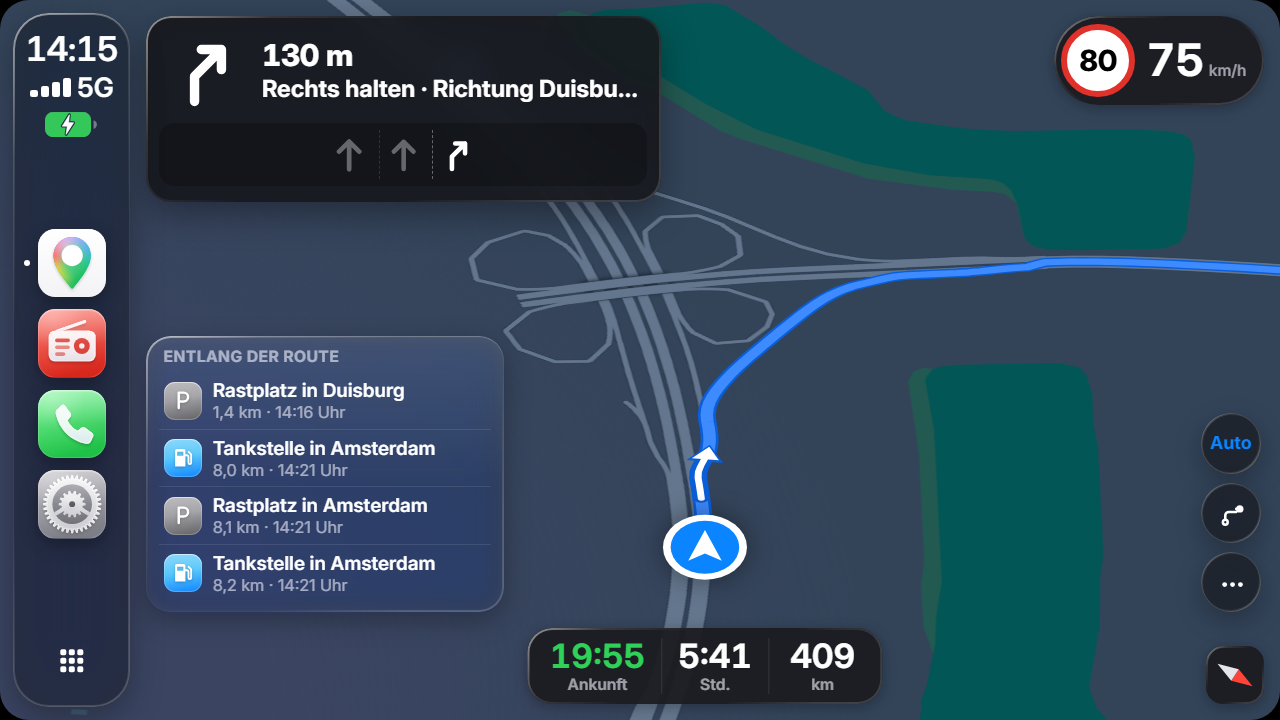
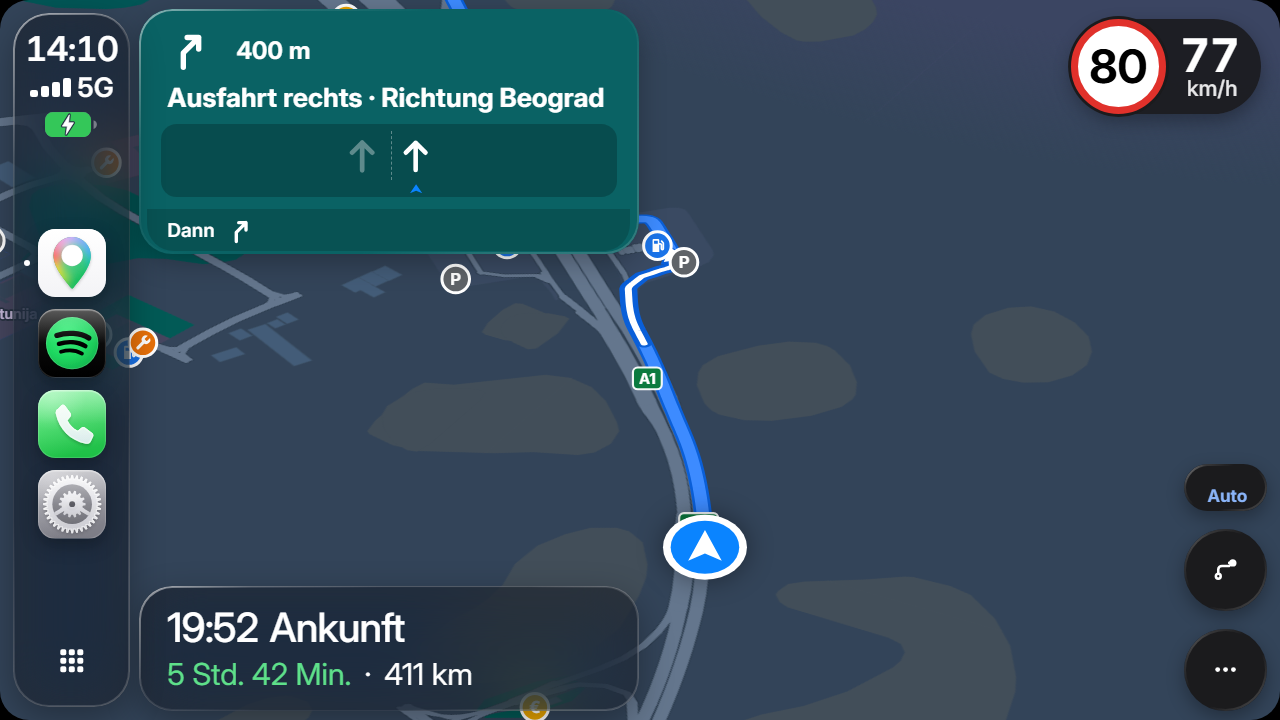
Version 1.9.7: neue Bilder, überarbeitete Beschreibung, Changelog

diff --git a/README.md b/README.md
@@ -2,7 +2,7 @@
 
 Deutsch · [English](README.en.md)
 
-Eine CarPlay-Oberfläche für das Navi-Display in Euro Truck Simulator 2. Auf dem Bildschirm im Truck laufen dann Karte mit Abbiegehinweisen, Spotify, Radio, Auftrag, Fahrzeugdaten, Blitzerwarner, Telefon und ein paar Apps mehr. Bedient wird mit der Maus, über Tastenkürzel oder vom Handy aus.
+Apple CarPlay für das Navi-Display in Euro Truck Simulator 2. Auf dem Bildschirm im Cockpit läuft eine echte Navigation mit Spurempfehlung und Wegweisern, dazu Spotify, Radio, Live-Fußball, dein Auftrag, Fahrzeugdaten mit Kontrollleuchten, ein Blitzerwarner und mehr. Die Karte entsteht aus deinen eigenen Spieldateien, mit allen DLCs. Bedient wird mit der Maus direkt auf dem Display, über Tastenkürzel, Lenkrad-Tasten oder vom Handy aus.
 
 ![Dashboard](bilder/dashboard-dunkel.png)
 
@@ -25,22 +25,34 @@ Fan-Projekt, nicht verbunden mit SCS Software, Apple, Google oder Spotify. Die M
 
 ## Was es kann
 
-### Karte und Navi
+### Navigation wie im echten Auto
 
-Die Karte wird aus deinen eigenen Spieldateien gebaut, also mit allen DLCs, die du hast. Drauf sind Straßen, Kreuzungen, Brücken, Gebäude, Wasser, Wald, Firmengelände und Tankstellen. Es gibt zwei Stile, angelehnt an Google Maps und Apple Karten, jeweils hell und dunkel, flach oder schräg von hinten.
+- Die Route kommt aus dem Navi des Spiels. Abbiegungen erkennt die App aus den Kreuzungsdaten des Spiels, also so, wie das Spiel selbst abbiegt
+- Spurempfehlung: Welche Spur du brauchst, siehst du vor jeder Kreuzung und Ausfahrt. Ein Marker zeigt, auf welcher Spur du gerade fährst
+- Wegweiser: „Ausfahrt rechts · A1 Richtung Linz“ mit Straßennummer und Ziel von den echten Schildern
+- Ampeln mit Restzeit, Tempolimit, Ankunftszeit, Rastplätze entlang der Strecke, Hinweise zu Grenzen und Steigungen
+- Ansagen auf Deutsch oder Englisch, auch mit natürlich klingenden KI-Stimmen. Wer schon zur richtigen Spur blinkt, wird nicht unnötig ermahnt
+- Optional: Warnung vor engen Kurven, wenn du zu schnell bist
 
-Die Route übernimmt die App aus dem Navi des Spiels. Du bekommst Abbiegehinweise mit Spurempfehlung, Ampeln mit Restzeit, Tempolimit, Ankunftszeit und Rastplätze entlang der Strecke. Ansagen gibt es auf Deutsch oder Englisch.
+### Eine Karte aus deinem Spiel
+
+- Gebaut aus deinen Spieldateien, mit allen DLCs. Nach Spiel-Updates baut die App sie selbst neu
+- Straßen so breit, wie sie Spuren haben, Brücken über den Straßen darunter, nah herangezoomt Fahrbahnmarkierungen und Abbiegepfeile
+- Gebäude, Wasser, Wälder, Felder, Fels und Sand, Firmengelände mit Hof- und Parkflächen
+- Zwei Stile wie Google Maps und Apple Karten, hell und dunkel, flach oder schräg von hinten. Im Google-Stil haben die Straßen dieselben Farben wie Google Maps in CarPlay
+- Optional: 3D-Gebäude, kleine Orte, Aussichtspunkte, versteckte Straßen und geheime Abkürzungen
 
 ### Apps
 
-- Spotify mit Cover, Steuerung, Warteschlange und mitlaufenden Songtexten. Geht auch, wenn das Spiel gerade nicht läuft
-- Radio mit über 90 Sendern (deutsche, englische, I LOVE RADIO und die Sender aus deinem Spiel), dazu eigene Sender
-- Auftrag: Strecke, Lieferfrist, Puffer, Lohn und wann die nächste Pause fällig ist
-- Fahrzeug: Tempo, Gang, Drehzahl, Tank, AdBlue und der Zustand von Zugmaschine und Anhänger
-- Blitzer, Waagen und Mautstellen mit Warnton. Blitzer, die dich erwischt haben, merkt sich die App
-- Wetter für den Ort, an dem du gerade bist
-- Telefon mit Disponent, Pannenhilfe und Co., Nachrichten, Kalender, Fahrtenbuch, Tanken & Rasten, Videos
-- Ein Dashboard mit Widgets, das du dir selbst zusammenstellst, dazu eigene Hintergründe und Symbole
+- **Spotify** mit Cover, Steuerung, Mediathek, Warteschlange und mitlaufenden Songtexten. Geht auch, wenn das Spiel gerade nicht läuft
+- **Radio** mit über 90 Sendern (deutsche, englische, I LOVE RADIO und die Sender aus deinem Spiel), dazu eigene Sender
+- **Sport** mit Live-Spielständen, Torschützen und Tabellen: Bundesliga bis 3. Liga, DFB-Pokal, Champions League, Premier League, LaLiga, Serie A und weitere Ligen, NFL und Formel 1. Für Lieblingsteams und einzelne Spiele gibt es einen Live-Ticker als Mitteilung
+- **Auftrag**: Strecke, Lieferfrist, Puffer, Lohn, Kosten unterwegs und wann die nächste Pause fällig ist
+- **Fahrzeug**: Tempo, Gang, Tank, AdBlue, Zustand von Zugmaschine und Anhänger, dazu Kontrollleuchten wie im Cockpit (Blinker, Licht, Fernlicht, Retarder) und Warnlampen für Bremsdruck, Öldruck, Motortemperatur und Batterie
+- **Blitzer**, Waagen und Mautstellen mit Warnton. Blitzer, die dich erwischt haben, merkt sich die App
+- **Wetter** für den Ort, an dem du gerade bist
+- Telefon mit Disponent und Pannenhilfe, Nachrichten, Kalender, Fahrtenbuch, Tanken & Rasten, Videos von YouTube und Twitch
+- Ein Dashboard mit Widgets, das du dir selbst zusammenstellst (zum Beispiel Navi, Musik oder der Live-Ticker), dazu eigene Hintergründe und Symbole
 
 ### Sprachassistent (optional)
 
@@ -64,15 +76,19 @@ Home-Knopf gedrückt halten und reden, zum Beispiel „Schaffe ich die Lieferung
 | | |
 |---|---|
 | ![Navi hell](bilder/navi-hell.png) | ![Navi dunkel](bilder/navi-dunkel.png) |
-| Navi im Google-Stil, hell | Navi im Google-Stil, dunkel |
+| Navi im Google-Stil mit Spurempfehlung, hell | Navi im Google-Stil, dunkel |
 | ![Apple-Stil dunkel](bilder/karte-apple-dunkel.png) | ![Dashboard hell](bilder/dashboard-hell.png) |
-| Navi im Apple-Stil, dunkel | Dashboard |
-| ![Radio](bilder/radio.png) | ![Home](bilder/home.png) |
-| Radio | Home-Bildschirm |
-| ![Auftrag](bilder/auftrag.png) | ![Fahrzeug](bilder/fahrzeug.png) |
-| Auftrag | Fahrzeug |
-| ![Blitzer](bilder/blitzer.png) | ![Wetter](bilder/wetter.png) |
-| Blitzer | Wetter |
+| Navi im Apple-Stil, dunkel | Dashboard, hell |
+| ![3D-Gebäude](bilder/karte-3d.png) | ![Gelände](bilder/karte-gelaende.png) |
+| 3D-Gebäude und Firmengelände (Option) | Wälder, Fels und Serpentinen |
+| ![Sport](bilder/sport.png) | ![Home](bilder/home.png) |
+| Sport mit Live-Spielständen | Home-Bildschirm |
+| ![Fahrzeug](bilder/fahrzeug.png) | ![Auftrag](bilder/auftrag.png) |
+| Fahrzeug mit Kontrollleuchten | Auftrag |
+| ![Radio](bilder/radio.png) | ![Wetter](bilder/wetter.png) |
+| Radio | Wetter |
+| ![Blitzer](bilder/blitzer.png) | |
+| Blitzer | |
 
 ## Voraussetzungen
 
@@ -116,11 +132,14 @@ Fürs Handy schaltest du in den Einstellungen die Handy-Steuerung ein und scanns
 
 ## Die Karte
 
-Die App liest die Karte aus den Dateien deines Spiels und baut sie nach Spiel-Updates neu. Was angezeigt wird, stellst du in den Karten-Einstellungen ein: Grünflächen, Wald, Wasser, Gebäude, Firmengelände, Straßennummern, Fahrbahnmarkierungen und so weiter.
+Die App liest die Karte aus den Dateien deines Spiels und baut sie nach Spiel-Updates neu. Was angezeigt wird, stellst du in den Karten-Einstellungen ein: Grünflächen, Wald, Wiesen, Felder, Fels und Sand, Wasser, Gebäude, Firmengelände, Straßennummern, Fahrbahnmarkierungen und so weiter.
 
-Brücken und Überführungen liegen sichtbar über den Straßen darunter. Straßen sind so breit, wie sie Spuren haben, Einbahnstraßen und Auffahrten bekommen Pfeile.
+Brücken und Überführungen liegen sichtbar über den Straßen darunter. Straßen sind so breit, wie sie Spuren haben, Einbahnstraßen und Auffahrten bekommen Pfeile. Nah herangezoomt siehst du Fahrbahnmarkierungen, vor Kreuzungen durchgezogen, und die aufgemalten Abbiegepfeile auf den Spuren. Firmengelände, Tankstellen und Rastplätze zeigen ihre Teilflächen wie die Spielkarte.
 
-Zwei Schalter sind ab Werk aus:
+Ab Werk aus, aber jederzeit einschaltbar:
+- 3D-Gebäude: in der geneigten Ansicht als Klötze mit der Höhe aus dem Spiel
+- Kleine Orte: Dörfer und Kulissenorte, die im Spiel keine eigene Stadt sind. Fürs Navi nutzt die App sie immer, um die Richtung mit den Wegweisern abzugleichen
+- Aussichtspunkte: die Aussichten, die man im Spiel entdecken kann
 - Versteckte Straßen: Straßen, die das Spiel auf seiner eigenen Karte nicht zeigt. Meist Kulisse oder nur für den KI-Verkehr
 - Geheime Abkürzungen: die Strecken, die man im Spiel erst entdecken muss
 
@@ -145,6 +164,10 @@ Die Anmeldung bleibt auf deinem PC (`%APPDATA%\ETS2 CarPlay`), es läuft nichts 
 ### Radio
 
 Die Sender sind nach Deutsch, Englisch, I LOVE RADIO, ETS2 und Eigene sortiert. Unter ETS2 stehen die Sender, die du im Spiel eingetragen hast. Eigene Sender fügst du im Editor-Fenster mit „+ Sender“ hinzu: Namen suchen (Senderverzeichnis radio-browser.info) oder eine Stream-Adresse eintragen. Radio und Spotify stoppen sich gegenseitig, und mit den Lenkrad-Tasten wechselst du den Sender.
+
+### Sport
+
+Spielstände, Torschützen, Tabellen und Formel 1 ohne Konto. Lieblingsteams wählst du in der Tabelle mit einem Tipp auf den Verein, einzelne Spiele verfolgst du mit einem Tipp auf das Spiel. Bei Anpfiff, Toren, Halbzeit und Abpfiff kommt dann eine Mitteilung. Die Ligen sortierst du per Ziehen und blendest aus, was dich nicht interessiert. Als Widget zeigt der Live-Ticker dein Spiel direkt auf dem Dashboard.
 
 ### Video
 
@@ -176,7 +199,7 @@ Unter Einstellungen › Allgemein › „Einstellungen sichern …“ schreibst 
 
 ## Updates
 
-Einmal am Tag schaut die App nach einer neuen Version (Einstellungen › Allgemein › Softwareupdate). Sie lädt das Update und installiert es beim Beenden, das Plugin gleich mit. Deine Einstellungen bleiben erhalten. Jede Datei wird vorher per SHA-256 geprüft.
+Bei jedem Start schaut die App nach einer neuen Version (höchstens alle drei Stunden, Einstellungen › Allgemein › Softwareupdate). Sie lädt das Update und installiert es beim Beenden, das Plugin gleich mit. Deine Einstellungen bleiben erhalten. Jede Datei wird vorher per SHA-256 geprüft. Was neu ist, steht nach dem Update unter Softwareupdate, frühere Versionen gleich darunter.
 
 ## Häufige Fragen
 
@@ -209,7 +232,8 @@ Entfernt werden das Plugin im Spiel, die Platzhalter in `Dokumente\Euro Truck Si
 
 - Teile des Spielplugins stammen aus dem [ETS2LA-Plugin](https://github.com/ETS2LA/plugin) (MIT).
 - Die Kartendaten liest der [TruckSim-Kartenparser](https://github.com/truckermudgeon/maps) (GPL-3.0) aus den Spieldateien. Der Quellcode liegt jedem Paket bei (`resources/mapdata/parser/QUELLE.txt`).
-- Meeresflächen: [Natural Earth](https://www.naturalearthdata.com/) (gemeinfrei).
+- Meeresflächen: [Natural Earth](https://www.naturalearthdata.com/) (gemeinfrei). Liste der Dörfer im Spiel: krmarci, aus dem TruckSim-Kartenparser.
+- Sport: [OpenLigaDB](https://www.openligadb.de/) (deutsche Ligen), ESPN (weitere Ligen, NFL), [Jolpica](https://jolpi.ca/) (Formel 1). Markenlogos der Trucks: Wikimedia Commons.
 - Radiosender: [radio-browser.info](https://www.radio-browser.info/), Songtexte: [LRCLIB](https://lrclib.net/), Wetter: [Open-Meteo](https://open-meteo.com/) und MET Norway.
 - Sprachassistent: whisper.cpp und llama.cpp (MIT), Sprachmodell Qwen (Apache 2.0), Stimmen Supertonic 3 von Supertone (OpenRAIL-M) über ONNX Runtime (MIT).
 - Schrift: [Inter](https://github.com/rsms/inter) (SIL Open Font License 1.1).

diff --git a/README.en.md b/README.en.md
@@ -2,7 +2,7 @@
 
 [Deutsch](README.md) · English
 
-A CarPlay interface for the navigation display in Euro Truck Simulator 2. The screen in your truck then shows a map with turn-by-turn directions, Spotify, radio, your job, truck data, speed camera warnings, a phone and a few more apps. You control it with the mouse, with hotkeys or from your phone.
+Apple CarPlay for the navigation display in Euro Truck Simulator 2. The screen in your cab runs real navigation with lane guidance and signposts, plus Spotify, radio, live football, your job, truck data with indicator lights, a speed camera warner and more. The map is built from your own game files, including every DLC. You control it with the mouse right on the display, with hotkeys, steering wheel buttons or from your phone.
 
 ![Dashboard](bilder/dashboard-dunkel.png)
 
@@ -25,22 +25,34 @@ Fan project, not affiliated with SCS Software, Apple, Google or Spotify. All tra
 
 ## What it does
 
-### Map and navigation
+### Navigation like in a real car
 
-The map is built from your own game files, so it includes every DLC you own. It shows roads, junctions, bridges, buildings, water, forests, company sites and fuel stations. There are two styles, based on Google Maps and Apple Maps, each in light and dark, either flat or tilted.
+- The route comes from the game's navigation. The app detects turns from the game's junction data, so it turns exactly like the game does
+- Lane guidance: before every junction and exit you see which lane you need. A marker shows the lane you are in right now
+- Signposts: "Exit right · A1 towards Linz" with the road number and the destination from the real signs
+- Traffic lights with remaining time, speed limit, arrival time, rest areas along the route, notes about borders and steep grades
+- Announcements in German or English, also with natural-sounding AI voices. If you already indicate towards the right lane, nobody nags you
+- Optional: a warning before tight curves when you are too fast
 
-The app takes the route from the game's own navigation. You get turn directions with lane guidance, traffic lights with remaining time, the speed limit, arrival time and rest areas along the route. Announcements are available in German or English.
+### A map from your game
+
+- Built from your game files, including every DLC. After game updates the app rebuilds it by itself
+- Roads as wide as their lanes, bridges above the roads below, and when zoomed in lane markings and painted turn arrows
+- Buildings, water, forests, fields, rock and sand, company sites with yards and parking
+- Two styles like Google Maps and Apple Maps, light and dark, flat or tilted. In Google style the roads have the same colors as Google Maps in CarPlay
+- Optional: 3D buildings, small towns, viewpoints, hidden roads and secret shortcuts
 
 ### Apps
 
-- Spotify with cover art, controls, queue and synced lyrics. It also works when the game isn't running
-- Radio with more than 90 stations (German, English, I LOVE RADIO and the stations from your game), plus your own
-- Job: route, deadline, time buffer, pay and when your next break is due
-- Truck: speed, gear, rpm, fuel, AdBlue and the condition of truck and trailer
-- Speed cameras, weigh stations and toll gates with a warning sound. The app remembers every camera that caught you
-- Weather for the place you're driving through
-- Phone with dispatcher, roadside assistance and others, messages, calendar, logbook, fuel & rest, videos
-- A dashboard with widgets you arrange yourself, plus your own wallpapers and icons
+- **Spotify** with cover art, controls, library, queue and synced lyrics. It also works when the game isn't running
+- **Radio** with more than 90 stations (German, English, I LOVE RADIO and the stations from your game), plus your own
+- **Sports** with live scores, goal scorers and tables: Bundesliga down to 3. Liga, DFB Cup, Champions League, Premier League, LaLiga, Serie A and more leagues, the NFL and Formula 1. Favourite teams and single matches get a live ticker as notifications
+- **Job**: route, deadline, time buffer, pay, costs on the road and when your next break is due
+- **Truck**: speed, gear, fuel, AdBlue, condition of truck and trailer, plus indicator lights like in the cab (indicators, lights, high beam, retarder) and warning lights for air pressure, oil pressure, engine temperature and battery
+- **Speed cameras**, weigh stations and toll gates with a warning sound. The app remembers every camera that caught you
+- **Weather** for the place you're driving through
+- Phone with dispatcher and roadside assistance, messages, calendar, logbook, fuel & rest, videos from YouTube and Twitch
+- A dashboard with widgets you arrange yourself (for example navigation, music or the live ticker), plus your own wallpapers and icons
 
 ### Voice assistant (optional)
 
@@ -64,15 +76,19 @@ Hold the Home button and talk, for example "Will I make the delivery?" or "Play 
 | | |
 |---|---|
 | ![Navigation light](bilder/navi-hell.png) | ![Navigation dark](bilder/navi-dunkel.png) |
-| Navigation, Google style, light | Navigation, Google style, dark |
+| Navigation in Google style with lane guidance, light | Navigation in Google style, dark |
 | ![Apple style dark](bilder/karte-apple-dunkel.png) | ![Dashboard light](bilder/dashboard-hell.png) |
-| Navigation, Apple style, dark | Dashboard |
-| ![Radio](bilder/radio.png) | ![Home](bilder/home.png) |
-| Radio | Home screen |
-| ![Job](bilder/auftrag.png) | ![Truck](bilder/fahrzeug.png) |
-| Job | Truck |
-| ![Speed cameras](bilder/blitzer.png) | ![Weather](bilder/wetter.png) |
-| Speed cameras | Weather |
+| Navigation in Apple style, dark | Dashboard, light |
+| ![3D buildings](bilder/karte-3d.png) | ![Terrain](bilder/karte-gelaende.png) |
+| 3D buildings and company sites (optional) | Forests, rock and hairpins |
+| ![Sports](bilder/sport.png) | ![Home](bilder/home.png) |
+| Sports with live scores | Home screen |
+| ![Truck](bilder/fahrzeug.png) | ![Job](bilder/auftrag.png) |
+| Truck with indicator lights | Job |
+| ![Radio](bilder/radio.png) | ![Weather](bilder/wetter.png) |
+| Radio | Weather |
+| ![Speed cameras](bilder/blitzer.png) | |
+| Speed cameras | |
 
 The screenshots show the German interface. English can be switched on in the settings.
 
@@ -118,11 +134,14 @@ For the phone, turn on phone control in the settings and scan the QR code. Phone
 
 ## The map
 
-The app reads the map from your game files and rebuilds it after game updates. What it shows is up to you in the map settings: green areas, forests, water, buildings, company sites, road numbers, lane markings and so on.
+The app reads the map from your game files and rebuilds it after game updates. What it shows is up to you in the map settings: green areas, forests, meadows, fields, rock and sand, water, buildings, company sites, road numbers, lane markings and so on.
 
-Bridges and overpasses visibly sit above the roads below. Roads are as wide as their lanes, and one-way roads and ramps get arrows.
+Bridges and overpasses visibly sit above the roads below. Roads are as wide as their lanes, and one-way roads and ramps get arrows. Zoomed in you see lane markings, solid before junctions, and the painted turn arrows on the lanes. Company sites, fuel stations and rest areas show their sub-areas like the game map.
 
-Two switches are off by default:
+Off by default, but can be switched on any time:
+- 3D buildings: blocks in the tilted view, with the height from the game
+- Small towns: villages and scenery towns that are not a city in the game. Navigation always uses them to match the direction with the signposts
+- Viewpoints: the viewpoints you can discover in the game
 - Hidden roads: roads the game doesn't show on its own map. Mostly scenery or only for AI traffic
 - Secret shortcuts: the routes you have to discover in the game first
 
@@ -147,6 +166,10 @@ The login stays on your PC (`%APPDATA%\ETS2 CarPlay`), nothing goes through thir
 ### Radio
 
 Stations are sorted into German, English, I LOVE RADIO, ETS2 and Own. ETS2 lists the stations you added in the game. You add your own in the editor window with "+ Station": search by name (radio-browser.info directory) or enter a stream address. Radio and Spotify stop each other, and the steering wheel buttons switch stations.
+
+### Sports
+
+Scores, goal scorers, tables and Formula 1 without an account. Pick favourite teams by tapping a club in the table, follow a single match by tapping it. You then get a notification at kick-off, for goals, at half time and at full time. Reorder leagues by dragging and hide the ones you don't care about. As a widget, the live ticker shows your match right on the dashboard.
 
 ### Video
 
@@ -178,7 +201,7 @@ Settings › General › "Back up settings …" writes all settings, learned spe
 
 ## Updates
 
-Once a day the app checks for a new version (Settings › General › Software update). It downloads the update and installs it when you close the app, plugin included. Your settings are kept. Every file is checked via SHA-256 first.
+The app checks for a new version every time it starts (at most every three hours, Settings › General › Software update). It downloads the update and installs it when you close the app, plugin included. Your settings are kept. Every file is checked via SHA-256 first. After an update, Software update lists what is new, with earlier versions right below.
 
 ## FAQ
 
@@ -211,7 +234,8 @@ This removes the plugin from the game, the placeholders in `Documents\Euro Truck
 
 - Parts of the game plugin come from the [ETS2LA plugin](https://github.com/ETS2LA/plugin) (MIT).
 - Map data is read from the game files with the [TruckSim map parser](https://github.com/truckermudgeon/maps) (GPL-3.0). Its source code ships with every package (`resources/mapdata/parser/QUELLE.txt`).
-- Sea areas: [Natural Earth](https://www.naturalearthdata.com/) (public domain).
+- Sea areas: [Natural Earth](https://www.naturalearthdata.com/) (public domain). List of villages in the game: krmarci, from the TruckSim map parser.
+- Sports: [OpenLigaDB](https://www.openligadb.de/) (German leagues), ESPN (more leagues, NFL), [Jolpica](https://jolpi.ca/) (Formula 1). Truck brand logos: Wikimedia Commons.
 - Radio stations: [radio-browser.info](https://www.radio-browser.info/), lyrics: [LRCLIB](https://lrclib.net/), weather: [Open-Meteo](https://open-meteo.com/) and MET Norway.
 - Voice assistant: whisper.cpp and llama.cpp (MIT), Qwen language model (Apache 2.0), Supertonic 3 voices by Supertone (OpenRAIL-M) via ONNX Runtime (MIT).
 - Font: [Inter](https://github.com/rsms/inter) (SIL Open Font License 1.1).

diff --git a/CHANGELOG.md b/CHANGELOG.md
@@ -4,6 +4,23 @@ Alle Versionen von ETS2 CarPlay. Die aktuelle Version gibt es unter [Releases](.
 
 All versions of ETS2 CarPlay. Get the current version from [Releases](../../releases/latest).
 
+## 1.9.7 (2026-10-19)
+
+- Karte im Google-Stil: Straßenfarben je Art wie Google Maps in CarPlay. Stadtstraßen weiß mit grauem Rand, Landstraßen, mehrspurige Straßen und Autobahnen graublau
+- Karte: Autobahnkreuze sehen herausgezoomt ruhiger aus. Eng nebeneinander liegende Fahrbahnen verschmelzen zu einem Band statt dünner Streifen
+- Karte: Firmengelände, Tankstellen, Rastplätze und Kreuzungsinseln zeigen ihre Teilflächen wie die Spielkarte (Hof, Parkflächen, Grün)
+- Optional: 3D-Gebäude in der geneigten Ansicht (Einstellungen › Karten)
+- Optional: Aussichtspunkte des Spiels und kleine Orte auf der Karte (Einstellungen › Karten)
+- Navi: Kleine Orte helfen beim Abgleich mit den Wegweisern, die Richtung stimmt öfter mit dem Schild überein
+- Navi: Abbiegepfeile auf der Fahrbahn nur noch dort, wo jeder Pfeil sicher auf einer eigenen Spur liegt
+- Navi: Blinkst du schon zur richtigen Spur, kommt kein „Bitte einordnen“ mehr
+- Fahrzeug-App: Kontrollleuchten wie im Cockpit (Blinker, Warnblinker, Licht, Fernlicht, Rundumleuchte, Wischer, Retarder) und Warnlampen mit Messwert (Bremsdruck, Öldruck, Motor heiß, Batterie, AdBlue). Bei echten Problemen während der Fahrt kommt eine Mitteilung
+- Neues Widget „Live-Ticker“: das verfolgte Spiel oder ein Spiel deiner Lieblingsteams direkt auf dem Dashboard
+- Sport: Anstoßzeit mit Datum („Heute 18:30“, „Di 21.10. 18:45“)
+- Musik: Ein Tipp aufs Cover im Dashboard öffnet immer „Läuft gerade“
+- Softwareupdate zeigt jetzt alle Neuerungen der installierten Version und frühere Versionen. Nach Updates wird bei jedem Start gesucht (höchstens alle drei Stunden)
+- Schneller: Das Farbschema wird nicht mehr 20-mal pro Sekunde komplett neu berechnet. Dazu kleinere Aufräumarbeiten
+
 ## 1.9.6 (2026-10-18)
 
 - Karte: Felder, Fels, Sand und Schnee aus dem Gelände des Spiels, mit runden, ruhigen Kanten. Im Google-Stil dezent wie bei Google Maps. Abschaltbar unter Einstellungen › Karten („Felder, Fels & Sand“)
